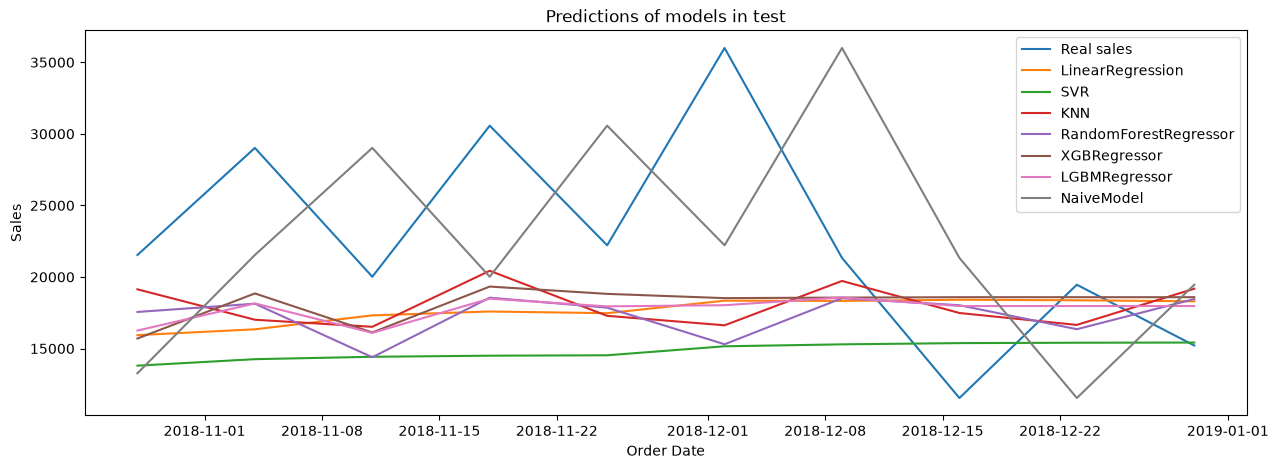
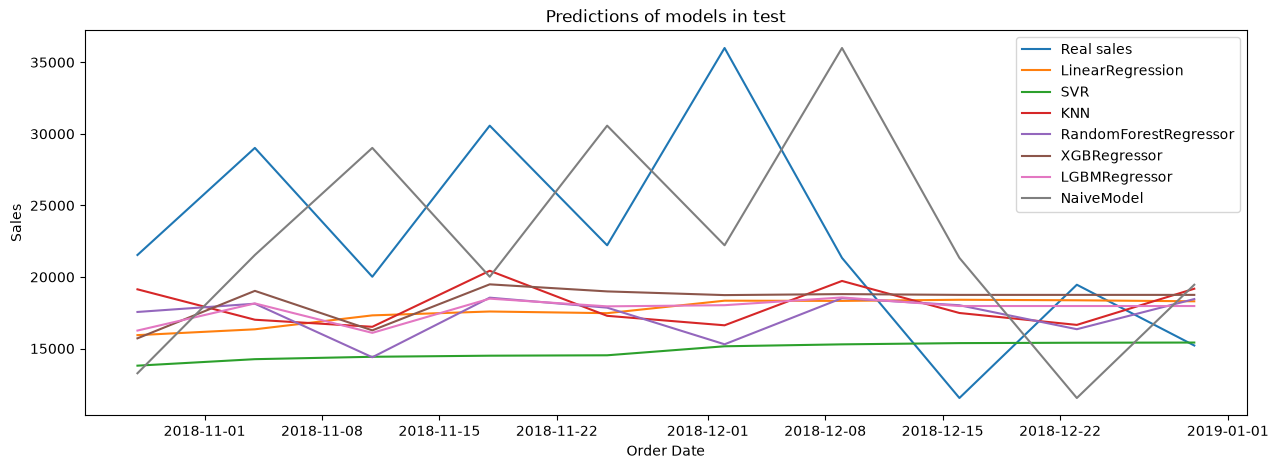
feat: functions to get weekly sales from database, create features and generate predictions

diff --git a/app/services/prediction.py b/app/services/prediction.py
@@ -1,0 +1,127 @@
+import pandas as pd  # Manejar DataFrames
+import numpy as np
+
+# Detalle: Las columnas que se utilicen en las funciones deben ser las columnas con la sintáxis de la BD porque de ahí se recupera la info.
+
+
+def get_weekly_sales(engine):
+    """
+    Devuelve las ventas semanales sumadas, desde la base de datos.
+
+    Args:
+        engine: Conexión a la base de datos
+
+    Returns:
+        df_week_sales (pd.DataFrame): DataFrame con ventas semanales totales en cada registro
+    """
+
+    query = """
+    SELECT order_date, sales
+    FROM sale
+    ORDER BY sales ASC
+    """
+
+    df = pd.read_sql(query, engine)
+
+    df_week_sales = df.groupby(pd.Grouper(key='order_date', freq='W'))['sales'].sum().reset_index()
+
+    return df_week_sales
+
+
+
+def create_features(df_week_sales):
+    """
+    Crear features de lags, rolling, month/year a partir del DataFrame con las ventas semanales.
+
+    Args:
+        df_week_sales (pd.DataFrame): DataFrame con ventas agrupadas por semana. Debe incluir columnas 'order_date' y 'sales'
+
+    Returns:
+        df_week_sales: DataFrame enriquecido con lags, rolling, mes y año para cada semana.
+    """
+
+    # Lags
+    weeks_of_lag = ['1', '2', '3', '4']
+
+    for lag in weeks_of_lag:
+        df_week_sales[f'Lag_{lag}'] = df_week_sales['sales'].shift(int(lag))
+
+    # Rolling
+    df_week_sales['Rolling_4'] = df_week_sales['sales'].shift(1).rolling(4).mean()
+
+    # Month and Year
+    df_week_sales['Month'] = df_week_sales['order_date'].dt.month
+    df_week_sales['Year'] = df_week_sales['order_date'].dt.year
+
+    return df_week_sales
+
+
+
+def forecast_prediction(df_week_sales, model, weeks_to_predict):
+    """
+    Realizar predicciones para X semanas hacia delante a partir de la última fecha registrada.
+
+    Args:
+        df_week_sales (pd.DataFrame): DataFrame con las ventas semanales totales, incluyendo los lags, rolling, month y year para cada registro.
+            Debe contener los features de: 'order_date', 'lag_1', 'lag_2', 'lag_3', 'lag_4', 'rolling_4', 'month', 'year 
+        model: Modelo entrenado listo para realizar predicciones.
+        weeks_to_predict (int): Número de semanas proximas a predecir.
+
+    Returns:
+        df_predictions (pd.DataFrame): DataFrame con fechas y predicciones de ventas para cada semana.
+    """
+
+    # Lista donde guardaremos las siguientes X semanas
+    predictions = []
+
+    # Historial de ventas
+    history_sales = list(df_week_sales['sales'])
+
+    # Obtener último día registrado
+    last_date = df_week_sales['order_date'].iloc[-1]
+
+    for i in range(1, weeks_to_predict+1):
+
+        # Crear lags para la predicción
+        lag_1 = [history_sales[-1]]
+        lag_2 = [history_sales[-2]]
+        lag_3 = [history_sales[-3]]
+        lag_4 = [history_sales[-4]]
+
+        # Crear rolling
+        rolling_4 = [np.mean(history_sales[-4:])]
+
+        # Obtener mes y año
+        next_date = last_date + pd.Timedelta(weeks=i)       # Sumarle al último dia, i semanas más
+
+        month = next_date.month
+        year = next_date.year
+
+        # Crear DataFrame para la predicción
+        x_to_predict = pd.DataFrame({
+            'Lag_1': lag_1,
+            'Lag_2': lag_2,
+            'Lag_3': lag_3,
+            'Lag_4': lag_4,
+            'Rolling_4': rolling_4,
+            'Month': month,
+            'Year': year
+        })
+
+        # Generar predicción
+        y_pred = model.predict(x_to_predict)[0]
+
+        # Agregar la predicción a la lista del historial (para que el proceso se haga todo de nuevo con la predicción como información)
+        history_sales.append(y_pred)
+
+        # Agrgar predicciones a la lista
+        predictions.append({
+            'order_date': next_date,
+            'sales': y_pred
+        })
+
+    # Finalmente convertir las predicciones en un DataFrame y retornar
+    df_predictions = pd.DataFrame(predictions)
+
+    return df_predictions
+

diff --git a/app/schemas/predict.py b/app/schemas/predict.py
@@ -1,0 +1,4 @@
+from pydantic import BaseModel
+
+class PredictionInput(BaseModel):
+    weeks_to_predict: int
